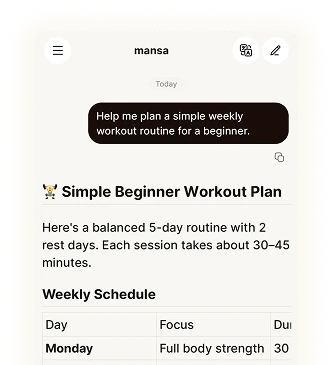
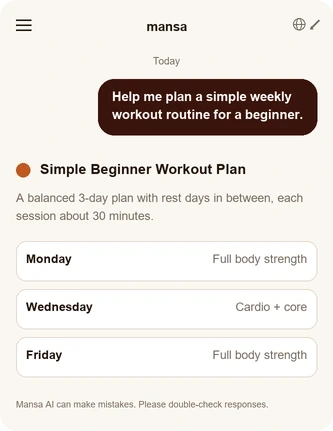
AiWhatAsk marquee + link, hide trust bar, fix cut-off AI cards, fix zoom crop
- AiWhatAsk: converted the static 3-col grid into two infinite
  horizontal marquee rows (top scrolls right, bottom scrolls left,
  hover pauses either row), and every card + its arrow now links out
  to the app with a visible hover state, replacing dead non-interactive
  cards.
- Hero: commented out the "Trusted by enterprise organisations" trust
  bar for now, left in place with a note since it may come back.
- AgentCapabilities: brought padding down from py-24/28 to py-16/20 -
  it sits between two other bg-cream sections with the same generous
  padding, so the gaps above and below it were compounding into a lot
  of empty cream space with no visual break.
- AI page "Engineered for intelligent conversations": the natural
  conversations card was a real screenshot cut off mid-table, and the
  emoji glyphs I'd used for two of the cards were rendering as tofu
  boxes. Regenerated both with complete content (a short 3-day
  workout list instead of a cut-off table; the "Hi, Anita" screen
  with its pill row wrapped so nothing overflows) using drawn vector
  icons instead of emoji, and added the same rounded transparent
  corners the sibling image already had to all three cards for a
  consistent frame.
- UseCases: the hover-zoom scaled the image inside a smaller
  fixed-size overflow-hidden frame, so the zoomed edges got clipped.
  Moved the scale to the same element as the frame/overflow-hidden so
  the whole card grows together instead of a viewport cropping a
[…]

diff --git a/components/ai/AiWhatAsk.tsx b/components/ai/AiWhatAsk.tsx
@@ -1,7 +1,8 @@
 "use client";
 
 import { motion } from "framer-motion";
-import { fadeUp, staggerContainer, viewportOnce } from "@/lib/motion";
+import { fadeUp, viewportOnce } from "@/lib/motion";
+import { APP_URL } from "@/lib/links";
 
 const prompts = [
   { tag: "Support", q: "A customer in Lagos is asking why their order hasn't shipped, in Yoruba. Help me write a polite, on-brand reply." },
@@ -11,6 +12,49 @@ const prompts = [
   { tag: "Sales", q: "How do I say \"thank you for your business, we look forward to working with you\" politely in Xhosa?" },
   { tag: "Operations", q: "Turn these mixed English and Hausa meeting notes into a clear action list for the team." },
 ];
+
+const topRow = prompts.slice(0, 3);
+const bottomRow = prompts.slice(3);
+
+function PromptCard({ tag, q, ariaHidden = false }: { tag: string; q: string; ariaHidden?: boolean }) {
+  return (
+    <a
+      href={APP_URL}
+      target="_blank"
+      rel="noopener noreferrer"
+      tabIndex={ariaHidden ? -1 : undefined}
+      aria-hidden={ariaHidden}
+      className="group flex w-[340px] shrink-0 flex-col rounded-2xl border border-white/10 bg-white/[0.03] p-6 transition-colors hover:border-white/20 hover:bg-white/[0.08] focus:outline-none focus-visible:ring-2 focus-visible:ring-sunset-1"
+    >
+      <div className="flex items-center justify-between">
+        <span className="text-xs font-semibold uppercase tracking-wide text-offwhite/50">{tag}</span>
+        <span aria-hidden className="text-offwhite/30 transition-transform duration-200 group-hover:translate-x-1 group-hover:text-offwhite/70">
+          ↗
+        </span>
+      </div>
+      <p className="mt-3 text-base leading-relaxed text-offwhite/85">{q}</p>
+    </a>
+  );
+}
+
+function MarqueeRow({ items, reverse = false }: { items: typeof prompts; reverse?: boolean }) {
+  const anim = reverse
+    ? "[animation:marquee_28s_linear_infinite_reverse]"
+    : "[animation:marquee_28s_linear_infinite]";
+
+  return (
+    <div className="group relative w-full overflow-hidden">
+      <div className={`flex w-max gap-6 ${anim} group-hover:[animation-play-state:paused]`}>
+        {items.map((p) => (
+          <PromptCard key={p.tag} tag={p.tag} q={p.q} />
+        ))}
+        {items.map((p) => (
+          <PromptCard key={`${p.tag}-dup`} tag={p.tag} q={p.q} ariaHidden />
+        ))}
+      </div>
+    </div>
+  );
+}
 
 export function AiWhatAsk() {
   return (
@@ -25,29 +69,20 @@ export function AiWhatAsk() {
         >
           What will you ask?
         </motion.h2>
-
-        <motion.div
-          variants={staggerContainer}
-          initial="hidden"
-          whileInView="visible"
-          viewport={viewportOnce}
-          className="mt-12 grid grid-cols-1 gap-6 md:grid-cols-2 lg:grid-cols-3"
-        >
-          {prompts.map((p) => (
-            <motion.div
-              key={p.tag}
-              variants={fadeUp}
-              className="flex flex-col rounded-2xl border border-white/10 bg-white/[0.03] p-6 transition-colors hover:bg-white/[0.06]"
-            >
-              <div className="flex items-center justify-between">
-                <span className="text-xs font-semibold uppercase tracking-wide text-offwhite/50">{p.tag}</span>
-                <span aria-hidden className="text-offwhite/30 transition-transform group-hover:translate-x-1">↗</span>
-              </div>
-              <p className="mt-3 text-base leading-relaxed text-offwhite/85">{p.q}</p>
-            </motion.div>
-          ))}
-        </motion.div>
       </div>
+
+      <motion.div
+        variants={fadeUp}
+        initial="hidden"
+        whileInView="visible"
+        viewport={viewportOnce}
+        className="marquee-mask mt-12 flex flex-col gap-6"
+      >
+        {/* base "marquee" keyframes drift the track left, so the row that
+            should visually scroll right needs the reversed playback */}
+        <MarqueeRow items={topRow} reverse />
+        <MarqueeRow items={bottomRow} />
+      </motion.div>
     </section>
   );
 }

diff --git a/components/sections/UseCases.tsx b/components/sections/UseCases.tsx
@@ -119,17 +119,20 @@ export function UseCases() {
                 </p>
               </div>
 
-              {/* Web app screenshot for the active use case */}
+              {/* Web app screenshot for the active use case — the whole card
+                  scales together on hover so the rounded frame's clip
+                  boundary grows in lockstep with the image, instead of a
+                  smaller viewport cropping a larger zoomed image. */}
               <motion.div
                 style={reduce ? undefined : { y: imgY }}
-                className="group mx-auto w-full overflow-hidden rounded-2xl bg-cream shadow-soft ring-1 ring-black/5"
+                className="mx-auto w-full overflow-hidden rounded-2xl bg-cream shadow-soft ring-1 ring-black/5 transition-transform duration-300 ease-out hover:scale-[1.04]"
               >
                 <Image
                   src={active.img}
                   alt={active.headline}
                   width={1310}
                   height={615}
-                  className="h-auto w-full transition-transform duration-300 ease-out group-hover:scale-[1.04]"
+                  className="h-auto w-full"
                 />
               </motion.div>
             </motion.div>

diff --git a/components/sections/Hero.tsx b/components/sections/Hero.tsx
@@ -112,13 +112,13 @@ export function Hero() {
         </motion.div>
       </div>
 
-      {/* Trust bar: label in the gutter, marquee full-bleed to the screen edges */}
-      <div className="pb-16 md:pb-24">
+      {/* Trust bar: hidden for now per request — may come back later, keep as-is. */}
+      {/* <div className="pb-16 md:pb-24">
         <p className="container-page mb-8 text-center text-sm font-medium uppercase tracking-wide text-ink-muted">
           Trusted by enterprise organisations
         </p>
         <LogoMarquee />
-      </div>
+      </div> */}
     </section>
   );
 }

diff --git a/components/agent/AgentCapabilities.tsx b/components/agent/AgentCapabilities.tsx
@@ -41,7 +41,7 @@ const caps = [
 
 export function AgentCapabilities() {
   return (
-    <section className="bg-cream py-24 md:py-28">
+    <section className="bg-cream py-16 md:py-20">
       <div className="container-page">
         <motion.div
           variants={fadeUp}
